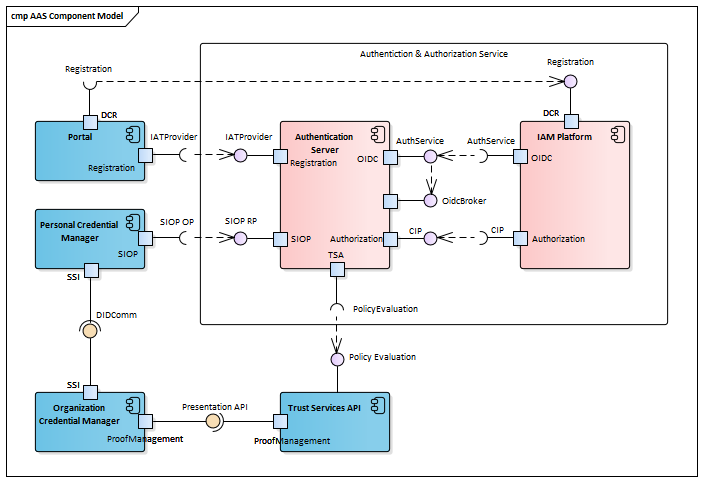
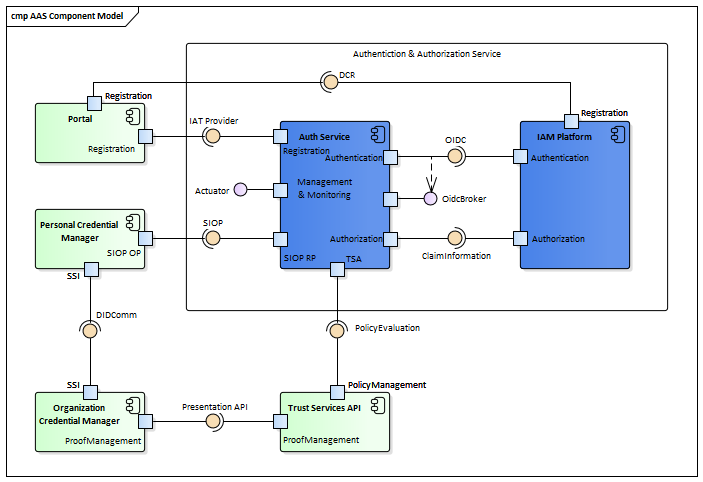
fixed diagrams

diff --git a/doc/architecture/index.md b/doc/architecture/index.md
@@ -5,12 +5,30 @@ Major AAS components and other GAIA-X services involved in communication with AA
 ![AAS Components](./images/aas_component_model.png "AAS Component Model")
 
 The components are:
-- Authentication Server: major AAS component exposing endpoints required by GAIA-X LOT1 specification
+- Auth Service: major [Authentication & Authorization Service](https://www.gxfs.eu/authentication-authorisation/) component exposing endpoints required by GAIA-X LOT1 specification.
 - IAM Platform: Identity and Access Management platform like keycloak, Gluu, WSO2, etc. 
-- Portal: web application protected with AAS, implemented as GAIA-X LOT13
-- Personal Credential manager: mobile application (SSI Wallet), GAIA-X LOT2 implementation
-- Organization Credential Manager: GAIA-X LOT3 implementation
-- Trust Services API: GAIA-X LOT4 implementation
+- [Portal](https://www.gxfs.eu/portal/): web application protected with AAS, implemented as GAIA-X LOT13.
+- [Personal Credential Manager](https://www.gxfs.eu/personal-credential-manager/): mobile application (SSI Wallet), GAIA-X LOT2 implementation.
+- [Organization Credential Manager](https://www.gxfs.eu/organizational-credential-manager/): GAIA-X LOT3 implementation.
+- [Trust Service API](https://www.gxfs.eu/trust-services-api/): GAIA-X LOT4 implementation.
 
-The Authentication Server is implemented as a regular Spring Boot Java application. Required OpenID/OAuth2 functionality is provided by [Spring Authorization Server](https://docs.spring.io/spring-security-oauth2-boot/docs/2.2.x-SNAPSHOT/reference/html/boot-features-security-oauth2-authorization-server.html) with help of Spring Security components. AAS customizes behavior of OIDC AuthService (/openid-configuration, /authorize, /token, /userinfo endpoints) and also implements several other interfaces, more details about their functionality and implementation can be found in the [AAS Functions section](../functions)
+The Auth Server component is implemented as a regular Spring Boot Java application. Required OpenID/OAuth2 functionality is provided by [Spring Authorization Server](https://docs.spring.io/spring-security-oauth2-boot/docs/2.2.x-SNAPSHOT/reference/html/boot-features-security-oauth2-authorization-server.html) with help of [Spring Security](https://spring.io/projects/spring-security-oauth) components. 
 
+The standard protocols used in component communications are:
+- [OIDC Discovery](https://openid.net/specs/openid-connect-discovery-1_0.html)
+- [OIDC Authorization Code Flow](https://openid.net/specs/openid-connect-core-1_0.html)
+- [OIDC Dynamic Client Registration](https://openid.net/specs/openid-connect-registration-1_0.html)
+- [Self-Issued OpenID Provider](https://openid.net/specs/openid-connect-self-issued-v2-1_0.html)
+- [DIDComm Messaging](https://identity.foundation/didcomm-messaging/spec/)
+
+And GAIA-X related API/protocols are:
+- Presentation API - endpoints used between [OCM](https://www.gxfs.eu/organizational-credential-manager/) and [TSA](https://www.gxfs.eu/trust-services-api/) in Proof Management scenarios
+- [Policy Evaluation API](../functions/tsa) - [TSA](https://www.gxfs.eu/trust-services-api/) Policy Evaluation endpoint
+- [IAT Provider API](../functions/iat_provider) - endpoints providing Initial Access Token Issuing functionality
+- [Claim Information API](../functions/cip_endpoint) - an endpoint for dynamic claims-based policy resolution, a kind of standard PIP functionality
+
+There are technical interfaces also:
+- OidcBroker - internal endpoints implementing custom [Spring Security](https://spring.io/projects/spring-security-oauth) Login Page
+- Actuator - a number of endpoints provided by [Spring Boot Actuator](https://docs.spring.io/spring-boot/docs/current/actuator-api/htmlsingle/) component 
+
+AAS customizes behavior of OIDC AuthService (/openid-configuration, /authorize, /jwks, /token, /userinfo endpoints) and also implements several other interfaces, more details about their functionality and implementation can be found in the [AAS Functions](../functions) section.

diff --git a/doc/functions/dcr/index.md b/doc/functions/dcr/index.md
@@ -1,13 +1,13 @@
 ## Dynamic Client Registration
 
-As alternative, the DCR scenario can be covered completely by our AAS implementation removing a necessity for Client to do extra calls for IAT and performing the whole scenario in synchronous way. Communication flow participants are:
+As alternative, the DCR scenario can be covered completely by our AAS implementation removing a necessity for Client to do extra calls for IAT and performing the whole scenario in synchronous way. Communication participants are:
 
 - Client Service – an application or service in Client domain
-- Client OCM – Organization Credential Manager (LOT3) in Client domain
-- SSI Broker (SSI IAT Provider) – an endpoint from AAS in SSI domain
-- SSI TSA – Trust Service API (LOT4) from SSI domain
-- SSI OCM – LOT3 from SSI domain
-- SSI IAM – Identity and Access Management Platform from SSI domain
+- Client OCM – [Organization Credential Manager](https://www.gxfs.eu/organizational-credential-manager/) in Client domain
+- Home AAS – [Authentication & Authorization Service](https://www.gxfs.eu/authentication-authorisation/) in Home domain
+- Home TSA – [Trust Service API](https://www.gxfs.eu/trust-services-api/) in Home domain
+- Home OCM – [Organization Credential Manager](https://www.gxfs.eu/organizational-credential-manager/) in Home domain
+- Home IAM – Identity and Access Management Platform in Home domain
 
 
 An alternative DCR communication flow is:
@@ -15,7 +15,5 @@ An alternative DCR communication flow is:
 ![Dynamic Client Registration](./images/dcr.png "Dynamic Client Registration")
 
 1.	OCM services from different domains establish trust connection between each other (some flow in Notarization or Orchestration LOTs, probably)
-2.	Client Service registers with OCM in its local domain
-3.	Client Service performs a dynamic registration via standard DCR endpoint in SSI AAS
-
-
+2.	Client Service registers with OCM in its local (Home) domain
+3.	Client Service performs a dynamic registration via standard DCR endpoint in Home AAS
